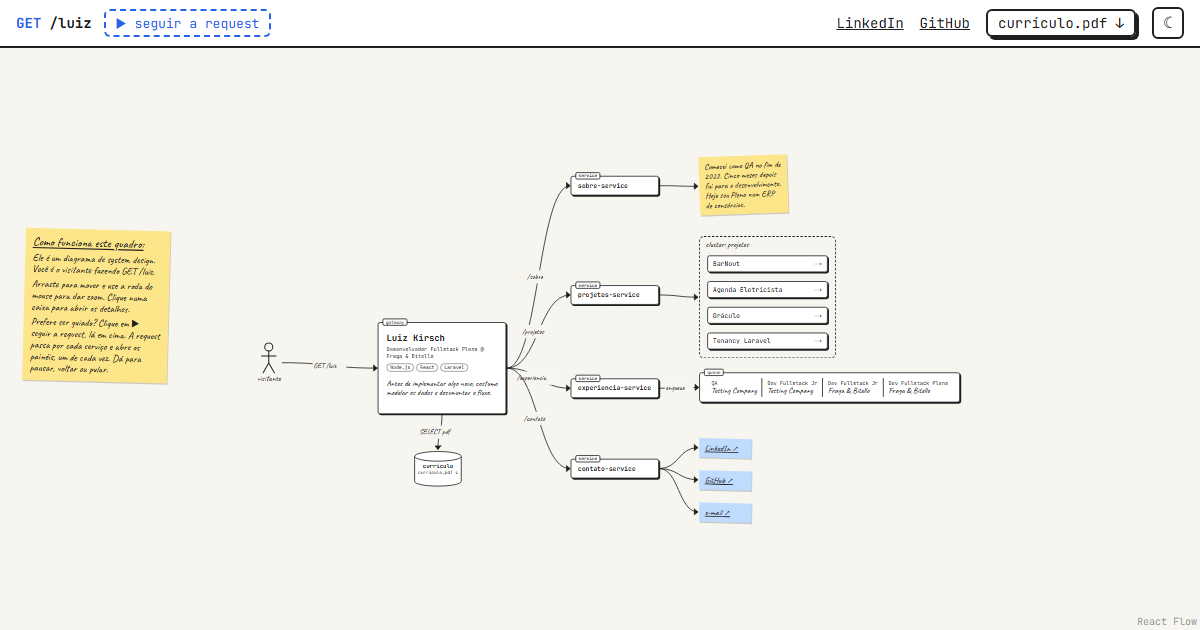
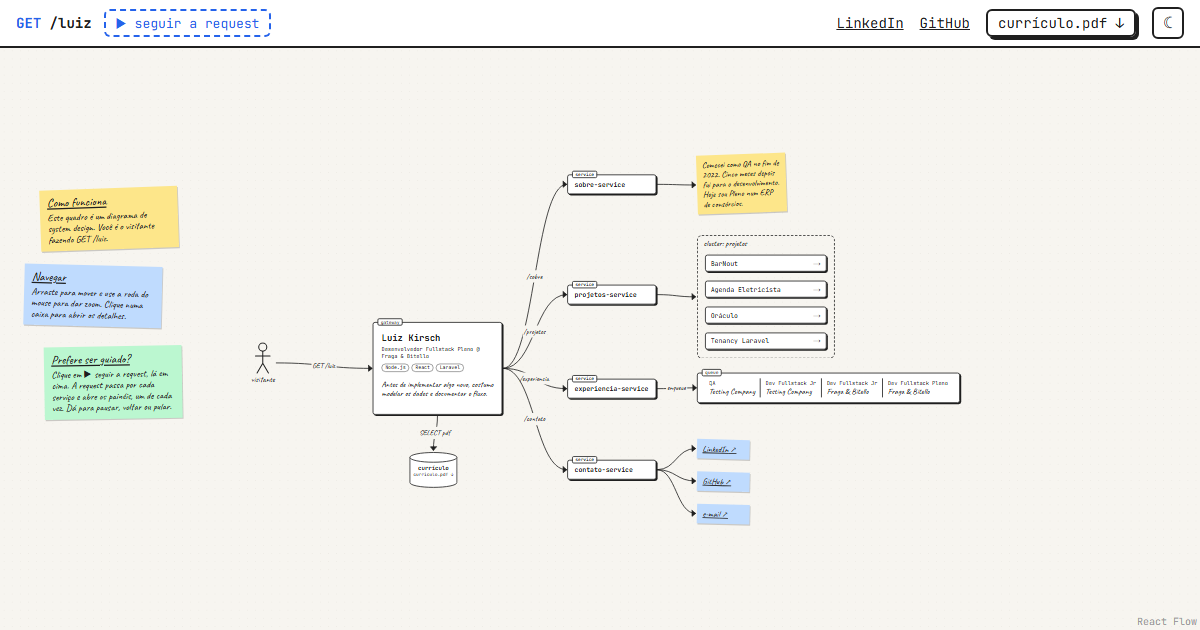
Como usar dividido em três post-its: amarelo, azul e verde
Como funciona (amarelo), Navegar (azul) e Prefere ser guiado? (verde),
em coluna à esquerda do visitante. howTo virou uma lista de notas com
cor; o StickyNode pinta a anotação pelo tone e cada cor tem inclinação
própria. Novo token --sticky-green nos dois temas. A abertura enquadra
as três notas e o visitante.

diff --git a/src/content/content.ts b/src/content/content.ts
@@ -84,12 +84,34 @@ export const profile = {
   cv: '/curriculo.pdf',
 }
 
-/** Post-it à esquerda do visitante: como usar o quadro. Só aparece no canvas. */
-export const howTo: string[] = [
-  'Como funciona este quadro:',
-  'Ele é um diagrama de system design. Você é o visitante fazendo GET /luiz.',
-  'Arraste para mover e use a roda do mouse para dar zoom. Clique numa caixa para abrir os detalhes.',
-  'Prefere ser guiado? Clique em ▶ seguir a request, lá em cima. A request passa por cada serviço e abre os painéis, um de cada vez. Dá para pausar, voltar ou pular.',
+/**
+ * Post-its à esquerda do visitante: como usar o quadro, um assunto por cor.
+ * Só aparecem no canvas (no mobile não há arrastar nem zoom).
+ */
+export const howTo: {
+  id: string
+  tone: 'yellow' | 'blue' | 'green'
+  title: string
+  text: string
+}[] = [
+  {
+    id: 'como-funciona',
+    tone: 'yellow',
+    title: 'Como funciona',
+    text: 'Este quadro é um diagrama de system design. Você é o visitante fazendo GET /luiz.',
+  },
+  {
+    id: 'como-navegar',
+    tone: 'blue',
+    title: 'Navegar',
+    text: 'Arraste para mover e use a roda do mouse para dar zoom. Clique numa caixa para abrir os detalhes.',
+  },
+  {
+    id: 'como-tour',
+    tone: 'green',
+    title: 'Prefere ser guiado?',
+    text: 'Clique em ▶ seguir a request, lá em cima. A request passa por cada serviço e abre os painéis, um de cada vez. Dá para pausar, voltar ou pular.',
+  },
 ]
 
 /** Versão curta para o post-it do canvas. O painel /sobre usa `about`. */

diff --git a/src/canvas/Board.tsx b/src/canvas/Board.tsx
@@ -12,7 +12,7 @@ import {
   useReactFlow,
   type Edge,
 } from '@xyflow/react'
-import type { TourStep } from '../content/content'
+import { howTo, type TourStep } from '../content/content'
 import { edges, nodeForRoute, nodes, type ModelNode } from '../diagram/model'
 import { clusterSize, position, sides, type XY } from '../diagram/layout'
 import { PANEL_WIDTH } from '../panels/Panel'
@@ -157,14 +157,18 @@ function FitAll() {
 // "Ver tudo" deixa livres o canto do minimapa (direita) e o botão (embaixo).
 const FIT = { padding: { top: '24px', left: '24px', right: '240px', bottom: '72px' } } as const
 
-// Ao entrar, a câmera abre no post-it "como funciona" e no visitante: primeiro
+// Ao entrar, a câmera abre nos post-its de como usar e no visitante: primeiro
 // se lê como usar, depois se explora. Zoom de leitura, sem ampliar demais.
 // URL direta (ex.: /projetos/barnout) ainda vai para o nó dela (RouteCamera).
-const INITIAL = { nodes: [{ id: 'como-usar' }, { id: 'actor' }], maxZoom: 1, padding: 0.15 }
+const INITIAL = {
+  nodes: [...howTo.map((h) => ({ id: h.id })), { id: 'actor' }],
+  maxZoom: 1,
+  padding: 0.15,
+}
 
 /**
  * `tour`: parada atual do tour, quando ele está rodando.
- * Como usar o quadro está explicado no post-it "como funciona", que é um nó do modelo.
+ * Como usar o quadro está explicado nos post-its de como usar, que são nós do modelo.
  */
 export function Board({ tour }: { tour?: TourStep }) {
   const navigate = useNavigate()

diff --git a/src/canvas/nodes/StickyNode.tsx b/src/canvas/nodes/StickyNode.tsx
@@ -3,14 +3,14 @@ import type { BoardNodeProps } from './types'
 import s from './nodes.module.css'
 
 /**
- * Post-it. Amarelo é anotação (texto vem do modelo); azul é link de contato,
- * com <a> de verdade. Anotação com vários parágrafos fica mais larga e usa o
- * primeiro como título.
+ * Post-it. Com `href` é link de contato (azul, com <a> de verdade); sem `href`
+ * é anotação com o texto do modelo, na cor do `tone`. Anotação com vários
+ * parágrafos fica mais larga e usa o primeiro como título.
  */
 export function StickyNode({ data }: BoardNodeProps) {
   if (data.href) {
     return (
-      <div className={`${s.sticky} ${s.blue}`}>
+      <div className={`${s.sticky} ${s.blue} ${s.link}`}>
         <a href={data.href} target="_blank" rel="noreferrer">
           {data.label} ↗
         </a>
@@ -22,7 +22,7 @@ export function StickyNode({ data }: BoardNodeProps) {
   const text = data.text ?? []
   const long = text.length > 1
   return (
-    <div className={`${s.sticky} ${s.yellow} ${long ? s.wide : ''}`}>
+    <div className={`${s.sticky} ${s[data.tone ?? 'yellow']} ${s.note} ${long ? s.wide : ''}`}>
       {text.map((t, i) => (
         <p key={t} className={long && i === 0 ? s.noteTitle : undefined}>
           {t}

diff --git a/src/canvas/nodes/nodes.module.css b/src/canvas/nodes/nodes.module.css
@@ -135,38 +135,51 @@
   color: inherit;
 }
 
+/* Cor do post-it. Cada cor tem uma inclinação própria, para notas vizinhas
+   não ficarem alinhadas demais, como papéis colados à mão. */
 .yellow {
-  width: 220px;
   background: var(--sticky-yellow);
   transform: rotate(-2deg);
 }
 
-.yellow p {
+.blue {
+  background: var(--sticky-blue);
+  transform: rotate(1.5deg);
+}
+
+.green {
+  background: var(--sticky-green);
+  transform: rotate(-1deg);
+}
+
+/* Formato: link de contato (pequeno) ou anotação (texto). */
+.link {
+  min-width: 130px;
+}
+
+.note {
+  width: 220px;
+}
+
+.note p {
   margin: 0;
 }
 
-.yellow p + p {
-  margin-top: 8px;
+.note p + p {
+  margin-top: 6px;
 }
 
-/* Post-it de instruções: mais largo, inclinado para o outro lado. */
+/* Post-its de como usar: maiores, para ler na abertura. */
 .wide {
-  width: 360px;
-  padding: 16px 18px;
-  font-size: 25px;
-  transform: rotate(1.5deg);
+  width: 340px;
+  padding: 14px 18px;
+  font-size: 24px;
 }
 
 .noteTitle {
   font-size: 30px;
   text-decoration: underline;
   text-underline-offset: 4px;
-}
-
-.blue {
-  min-width: 130px;
-  background: var(--sticky-blue);
-  transform: rotate(1.5deg);
 }
 
 .database {

diff --git a/src/diagram/model.ts b/src/diagram/model.ts
@@ -23,7 +23,7 @@ export type ModelNode = {
   /** Nó que contém este (projetos ficam dentro do cluster). */
   parentId?: string
   /** Cor do post-it. */
-  tone?: 'yellow' | 'blue'
+  tone?: 'yellow' | 'blue' | 'green'
   /** Texto do post-it (um parágrafo por item). */
   text?: string[]
 }
@@ -47,8 +47,14 @@ export const contactLinks = [
 export const projectRoute = (slug: string) => `/projetos/${slug}`
 
 export const nodes: ModelNode[] = [
-  // Anotação solta ao lado do visitante, sem setas: explica como usar o quadro.
-  { id: 'como-usar', kind: 'sticky', label: 'como funciona', tone: 'yellow', text: howTo },
+  // Anotações soltas ao lado do visitante, sem setas: explicam como usar o quadro.
+  ...howTo.map((h): ModelNode => ({
+    id: h.id,
+    kind: 'sticky',
+    label: h.title,
+    tone: h.tone,
+    text: [h.title, h.text],
+  })),
   { id: 'actor', kind: 'actor', label: 'visitante' },
   { id: 'gateway', kind: 'gateway', label: profile.name, route: '/' },
   { id: 'curriculo', kind: 'database', label: 'currículo', href: profile.cv },

diff --git a/src/diagram/layout.ts b/src/diagram/layout.ts
@@ -25,7 +25,10 @@ const CLUSTER_BOTTOM = 90
 const clusterTop = CLUSTER_BOTTOM - clusterSize.height
 
 const fixed: Record<string, XY> = {
-  'como-usar': { x: -880, y: -230 },
+  // Post-its de como usar: coluna à esquerda do visitante, levemente desencontrados.
+  'como-funciona': { x: -820, y: -330 },
+  'como-navegar': { x: -860, y: -140 },
+  'como-tour': { x: -810, y: 60 },
   actor: { x: -300, y: 50 },
   gateway: { x: 0, y: 0 },
   curriculo: { x: 90, y: 320 },

diff --git a/src/theme.css b/src/theme.css
@@ -7,6 +7,7 @@
   --accent: #2563eb;
   --sticky-yellow: #fde68a;
   --sticky-blue: #bfdbfe;
+  --sticky-green: #bbf7d0;
   --shadow: 3px 3px 0 var(--ink);
   --radius: 6px;
   --mono: 'JetBrains Mono', ui-monospace, monospace;
@@ -24,6 +25,7 @@
   --accent: #7fb0ff;
   --sticky-yellow: #e8d27a;
   --sticky-blue: #a9c9ec;
+  --sticky-green: #a3d9b1;
   --shadow: 3px 3px 0 rgb(0 0 0 / 0.45);
   color-scheme: dark;
 }
